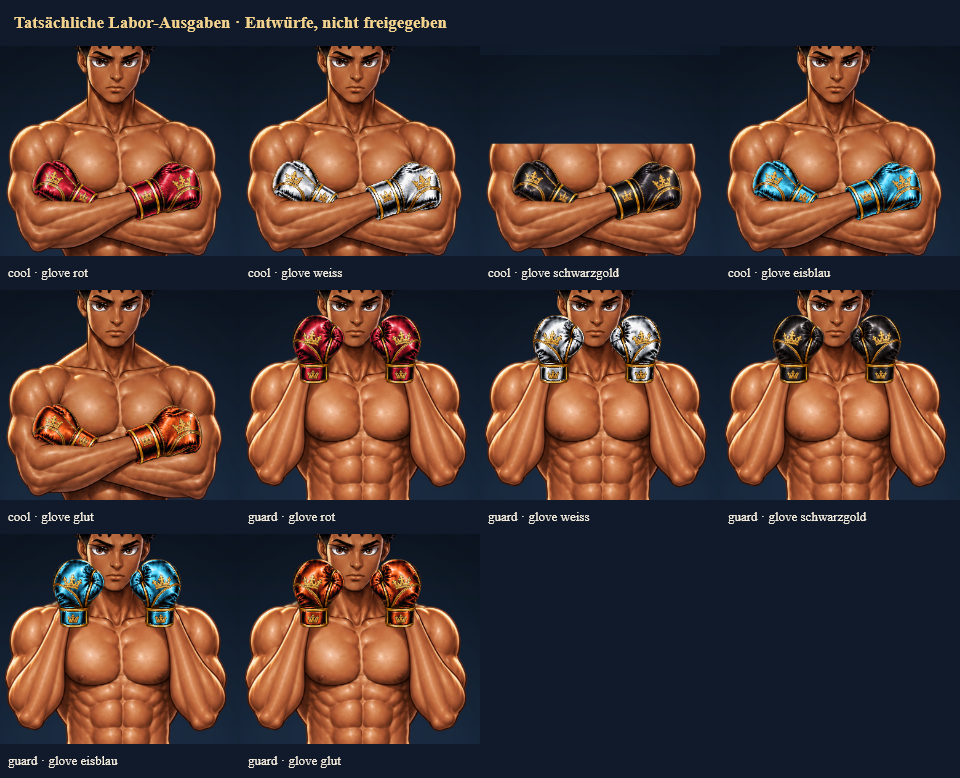
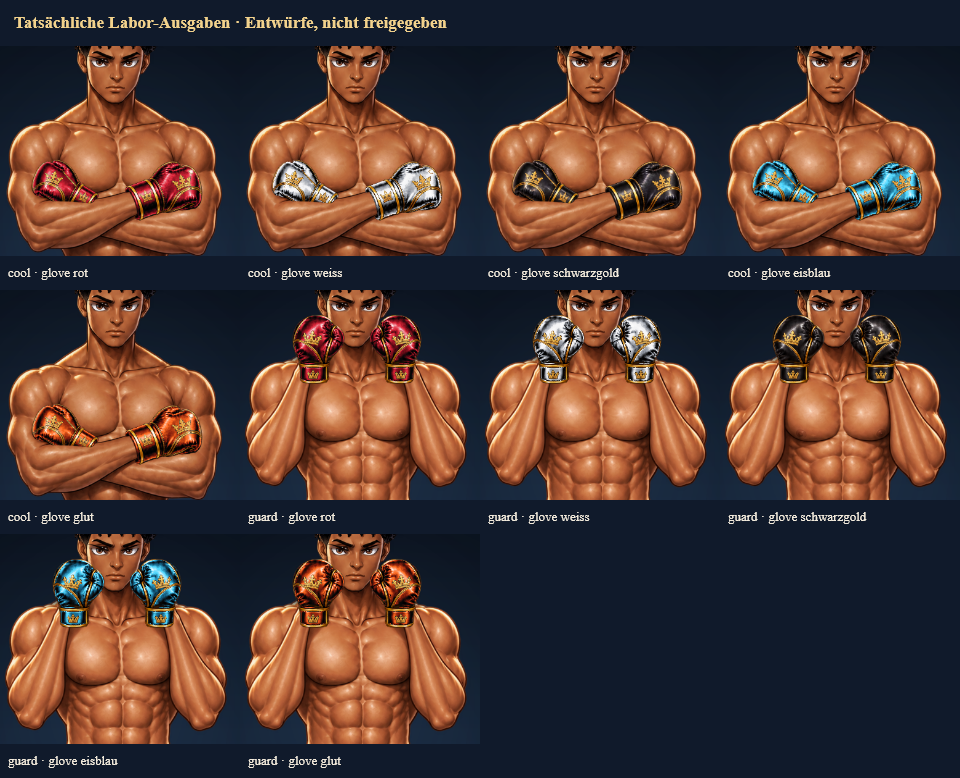
Keep shirt masking optional for hair-only production rendering

Changed region(s): [[0.5, 0.0617, 0.7188, 0.1851]]

diff --git a/tools/premium-v2/production.js b/tools/premium-v2/production.js
@@ -55,7 +55,7 @@ function draw(ctx,selection,images,slot){
  if(!slot)TLPremiumEffects.drawBack(ctx,selection.config);
  let body;if(!slot&&selection.topSelection){body=document.createElement('canvas');body.width=768;body.height=1216;draw(body.getContext('2d'),selection,images,'body');}
  for(const p of selection.pieces){if(slot&&p.slot!==slot&&!(slot==='coat'&&p.slot.startsWith('coat')))continue;
-  const source=crop(images[p.src],p),material=TLPremiumMaterials.applyToPiece(source,p.id,selection.config,p.box),isolated=p.slot==='hair'?TLPremiumMaterials.hairOnly(material,p.id,p.box):material,surface=keepCoveredBody(hideHijabEars(occludeSleeves(p.id==='body-'+selection.config.pose_profile?TLPremiumTops.maskBody(isolated,selection.topSelection,p.box):isolated,p,selection.config),p,selection),p,selection);ctx.save();if(p.slot==='hair'&&selection.hairMask&&selection.hairMask.type==='keepRect'){ctx.beginPath();ctx.rect(...selection.hairMask.rect);ctx.clip()}if(!slot&&p.bodyClipRect){ctx.beginPath();ctx.rect(...p.bodyClipRect);ctx.clip()}ctx.drawImage(surface,p.box[0],p.box[1],p.box[2],p.box[3]);ctx.restore();if(surface!==isolated){surface.width=0;surface.height=0;}if(!slot&&p.slot==='top')TLPremiumTops.restoreArms(ctx,body,selection.topSelection,images);
+  const source=crop(images[p.src],p),material=TLPremiumMaterials.applyToPiece(source,p.id,selection.config,p.box),isolated=p.slot==='hair'?TLPremiumMaterials.hairOnly(material,p.id,p.box):material,surface=keepCoveredBody(hideHijabEars(occludeSleeves(p.id==='body-'+selection.config.pose_profile&&selection.topSelection?.bodyVisibility?TLPremiumTops.maskBody(isolated,selection.topSelection,p.box):isolated,p,selection.config),p,selection),p,selection);ctx.save();if(p.slot==='hair'&&selection.hairMask&&selection.hairMask.type==='keepRect'){ctx.beginPath();ctx.rect(...selection.hairMask.rect);ctx.clip()}if(!slot&&p.bodyClipRect){ctx.beginPath();ctx.rect(...p.bodyClipRect);ctx.clip()}ctx.drawImage(surface,p.box[0],p.box[1],p.box[2],p.box[3]);ctx.restore();if(surface!==isolated){surface.width=0;surface.height=0;}if(!slot&&p.slot==='top')TLPremiumTops.restoreArms(ctx,body,selection.topSelection,images);
  }
  if(body){body.width=0;body.height=0;}
  if(!slot)TLPremiumEffects.drawEyes(ctx,selection.config);
